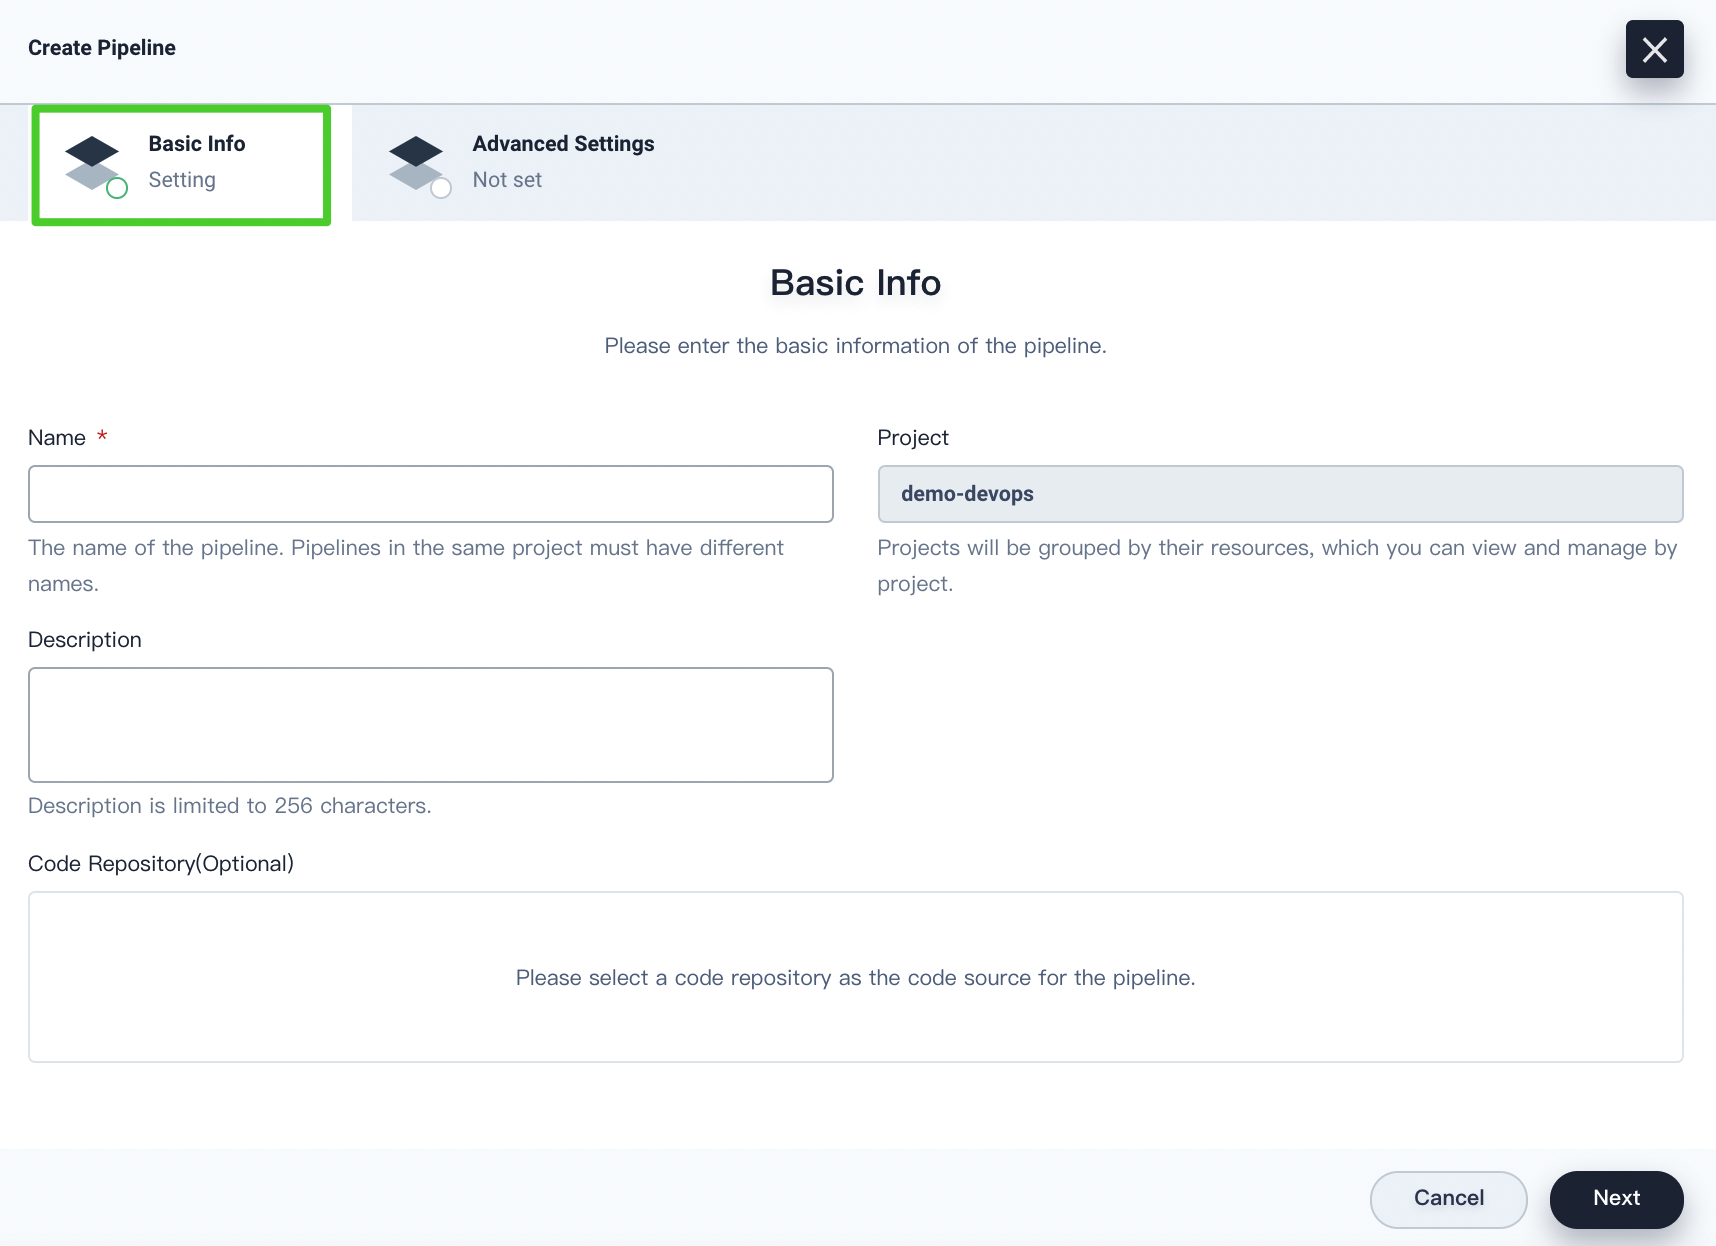
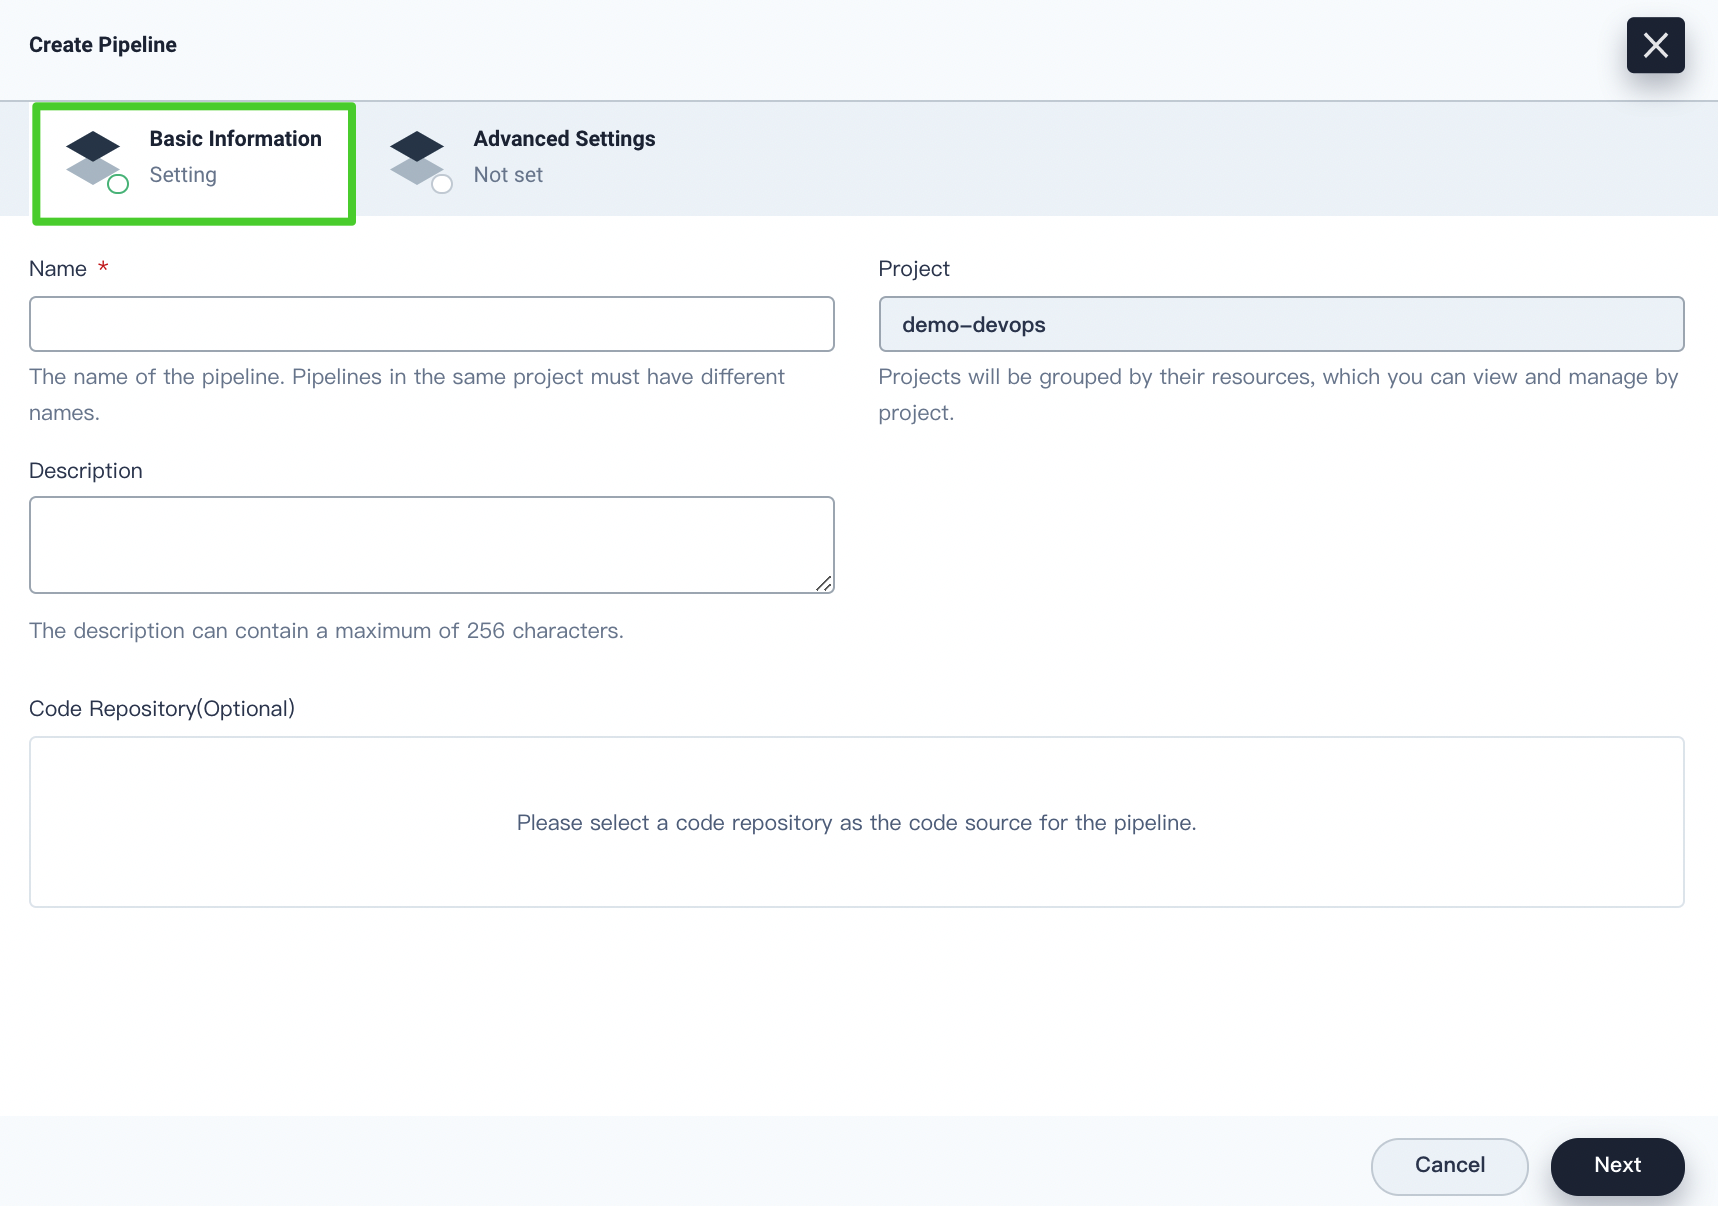
wording updated

diff --git a/content/zh/docs/devops-user-guide/how-to-use/pipeline-settings.md b/content/zh/docs/devops-user-guide/how-to-use/pipeline-settings.md
@@ -1,12 +1,12 @@
 ---
 title: "Pipeline Settings"
 keywords: 'KubeSphere, Kubernetes, Docker, Jenkins, Pipelines'
-description: '了解 DevOps 工程中流水线的各个属性。'
+description: 'Understand various pipeline properties in a DevOps project.'
 linkTitle: "Pipeline Settings"
 weight: 11280
 ---
 
-When you create a pipeline, you can customize its configurations through various settings. This document illustrates the settings when creating a pipeline.
+When you create a pipeline, you can customize its configurations through various settings. This document illustrates these settings in detail.
 
 ## Prerequisites
 
@@ -19,7 +19,7 @@ When you create a pipeline, you can customize its configurations through various
 
 ![basic-info-tab](/images/docs/devops-user-guide/using-devops/pipeline-settings/basic-info-tab.png)
 
-On the **Basic Info** tab, you can customize the following information:
+On the **Basic Information** tab, you can customize the following information:
 
 - **Name**. The name of the pipeline. Pipelines in the same DevOps project must have different names.
 
@@ -77,7 +77,7 @@ On the **Basic Info** tab, you can customize the following information:
 
 If you selected a code repository, you can customize the following configurations on the **Advanced Settings** tab:
 
-**Branches Settings**
+**Branch Settings**
 
 ![branch-settings](/images/docs/devops-user-guide/using-devops/pipeline-settings/branch-settings.png)
 
@@ -136,7 +136,7 @@ The field of **Script Path** specifies the Jenkinsfile path in the code reposito
 
 ![scan-repo-trigger](/images/docs/devops-user-guide/using-devops/pipeline-settings/scan-repo-trigger.png)
 
-You can check **Enable regular expressions, ignoring names that do not match the provided regular expression (including branches and PR, etc.)** to specify a regular expression as the trigger for scanning the code repository.
+You can check **Enable regular expressions, ignoring names that do not match the provided regular expression (including branches and PRs)** to specify a regular expression as the trigger for scanning the code repository.
 
 You can also check **If not, scan regularly** and set the scan interval from the drop-down list.
 
@@ -168,7 +168,7 @@ If you don't select a code repository, you can customize the following configura
 
 ![build-settings](/images/docs/devops-user-guide/using-devops/pipeline-settings/build-settings.png)
 
-**Discard old builds** determines when the build records under the branch will be discarded. The build record includes the console output, archive artifacts, and other metadata related to a particular build. Keeping less builds saves disk space used by Jenkins. KubeSphere provides two options to determine when old builds are discarded:
+**Discard old builds** determines when the build records under the branch will be discarded. The build record includes the console output, archived artifacts, and other metadata related to a particular build. Keeping fewer builds saves disk space used by Jenkins. KubeSphere provides two options to determine when old builds are discarded:
 
 - **Days to keep build**. The build will be discarded after a certain number of days.
 
@@ -186,7 +186,7 @@ If you don't select a code repository, you can customize the following configura
 
 ![parametric-build](/images/docs/devops-user-guide/using-devops/pipeline-settings/parametric-build.png)
 
-The parameterized build process allows you to pass in one or more parameters when you start to run a pipeline. KubeSphere provides five types of parameters by default, including **String**, **Text**, **Boolean**, **Choice**, and **Password**. When parameterizing a project, the build is replaced with a parameterized build, which prompts the user to enter a value for each defined parameter.
+The parameterized build process allows you to pass in one or more parameters when you start to run a pipeline. KubeSphere provides five types of parameters by default, including **String**, **Text**, **Boolean**, **Choice**, and **Password**. When you parameterize a project, the build is replaced with a parameterized build, which prompts the user to enter a value for each defined parameter.
 
 **Build Trigger**
 

diff --git a/content/en/docs/devops-user-guide/how-to-use/pipeline-settings.md b/content/en/docs/devops-user-guide/how-to-use/pipeline-settings.md
@@ -6,7 +6,7 @@ linkTitle: "Pipeline Settings"
 weight: 11280
 ---
 
-When you create a pipeline, you can customize its configurations through various settings. This document illustrates the settings when creating a pipeline.
+When you create a pipeline, you can customize its configurations through various settings. This document illustrates these settings in detail.
 
 ## Prerequisites
 
@@ -19,7 +19,7 @@ When you create a pipeline, you can customize its configurations through various
 
 ![basic-info-tab](/images/docs/devops-user-guide/using-devops/pipeline-settings/basic-info-tab.png)
 
-On the **Basic Info** tab, you can customize the following information:
+On the **Basic Information** tab, you can customize the following information:
 
 - **Name**. The name of the pipeline. Pipelines in the same DevOps project must have different names.
 
@@ -77,7 +77,7 @@ On the **Basic Info** tab, you can customize the following information:
 
 If you selected a code repository, you can customize the following configurations on the **Advanced Settings** tab:
 
-**Branches Settings**
+**Branch Settings**
 
 ![branch-settings](/images/docs/devops-user-guide/using-devops/pipeline-settings/branch-settings.png)
 
@@ -136,7 +136,7 @@ The field of **Script Path** specifies the Jenkinsfile path in the code reposito
 
 ![scan-repo-trigger](/images/docs/devops-user-guide/using-devops/pipeline-settings/scan-repo-trigger.png)
 
-You can check **Enable regular expressions, ignoring names that do not match the provided regular expression (including branches and PR, etc.)** to specify a regular expression as the trigger for scanning the code repository.
+You can check **Enable regular expressions, ignoring names that do not match the provided regular expression (including branches and PRs)** to specify a regular expression as the trigger for scanning the code repository.
 
 You can also check **If not, scan regularly** and set the scan interval from the drop-down list.
 
@@ -168,7 +168,7 @@ If you don't select a code repository, you can customize the following configura
 
 ![build-settings](/images/docs/devops-user-guide/using-devops/pipeline-settings/build-settings.png)
 
-**Discard old builds** determines when the build records under the branch will be discarded. The build record includes the console output, archive artifacts, and other metadata related to a particular build. Keeping less builds saves disk space used by Jenkins. KubeSphere provides two options to determine when old builds are discarded:
+**Discard old builds** determines when the build records under the branch will be discarded. The build record includes the console output, archived artifacts, and other metadata related to a particular build. Keeping fewer builds saves disk space used by Jenkins. KubeSphere provides two options to determine when old builds are discarded:
 
 - **Days to keep build**. The build will be discarded after a certain number of days.
 
@@ -186,7 +186,7 @@ If you don't select a code repository, you can customize the following configura
 
 ![parametric-build](/images/docs/devops-user-guide/using-devops/pipeline-settings/parametric-build.png)
 
-The parameterized build process allows you to pass in one or more parameters when you start to run a pipeline. KubeSphere provides five types of parameters by default, including **String**, **Text**, **Boolean**, **Choice**, and **Password**. When parameterizing a project, the build is replaced with a parameterized build, which prompts the user to enter a value for each defined parameter.
+The parameterized build process allows you to pass in one or more parameters when you start to run a pipeline. KubeSphere provides five types of parameters by default, including **String**, **Text**, **Boolean**, **Choice**, and **Password**. When you parameterize a project, the build is replaced with a parameterized build, which prompts the user to enter a value for each defined parameter.
 
 **Build Trigger**
 
